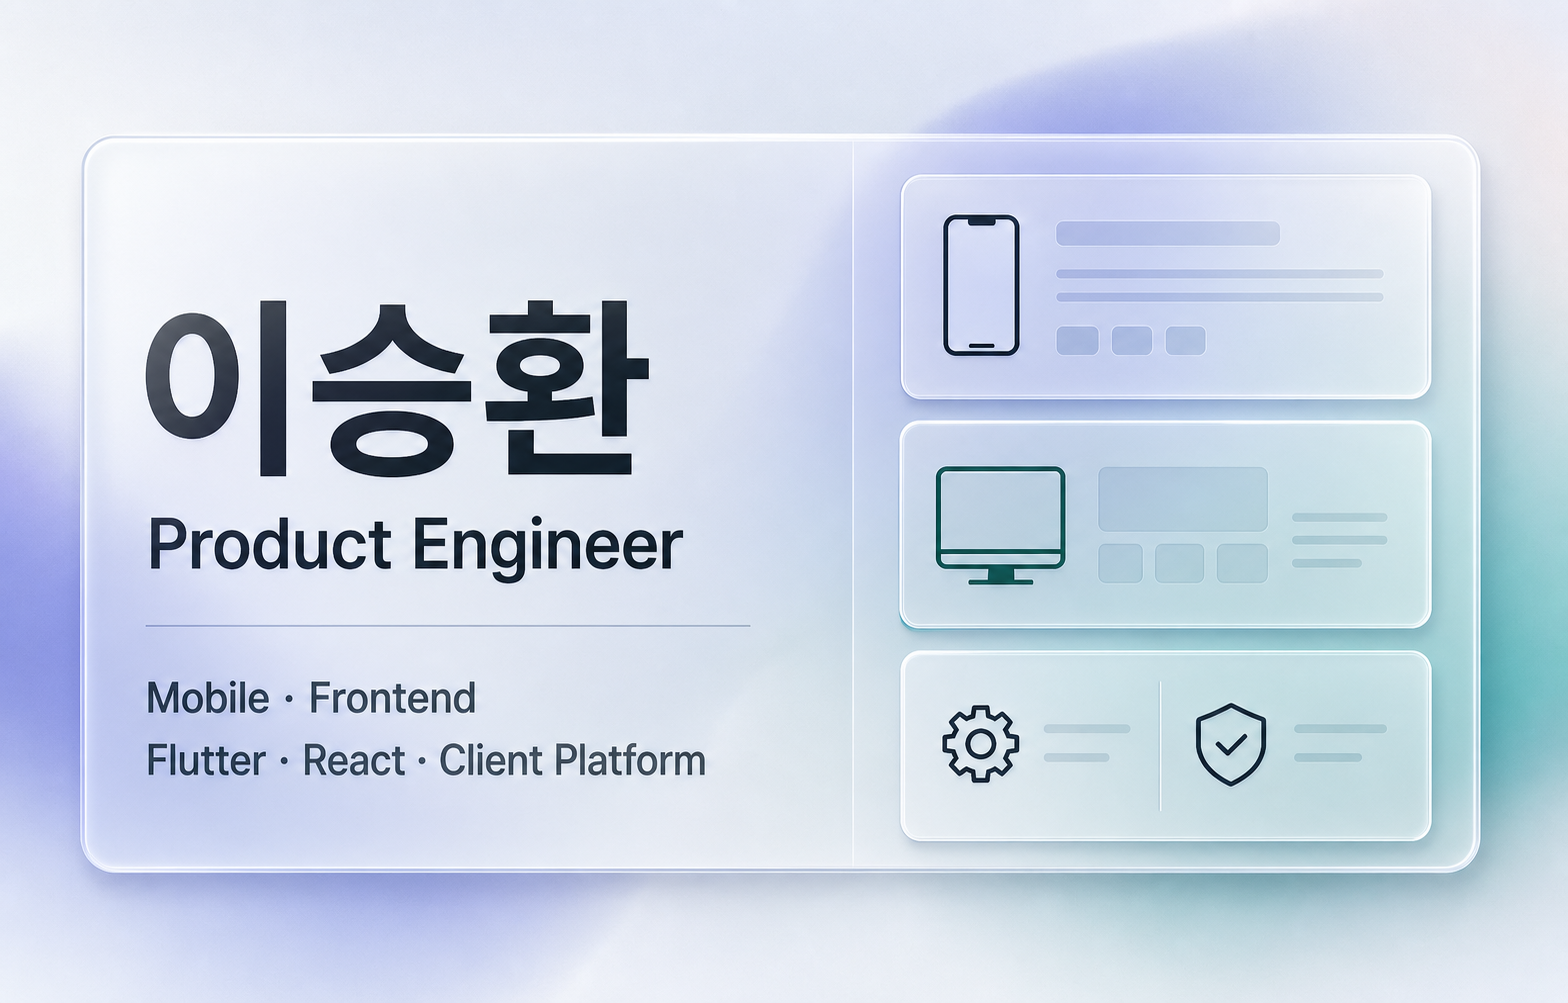
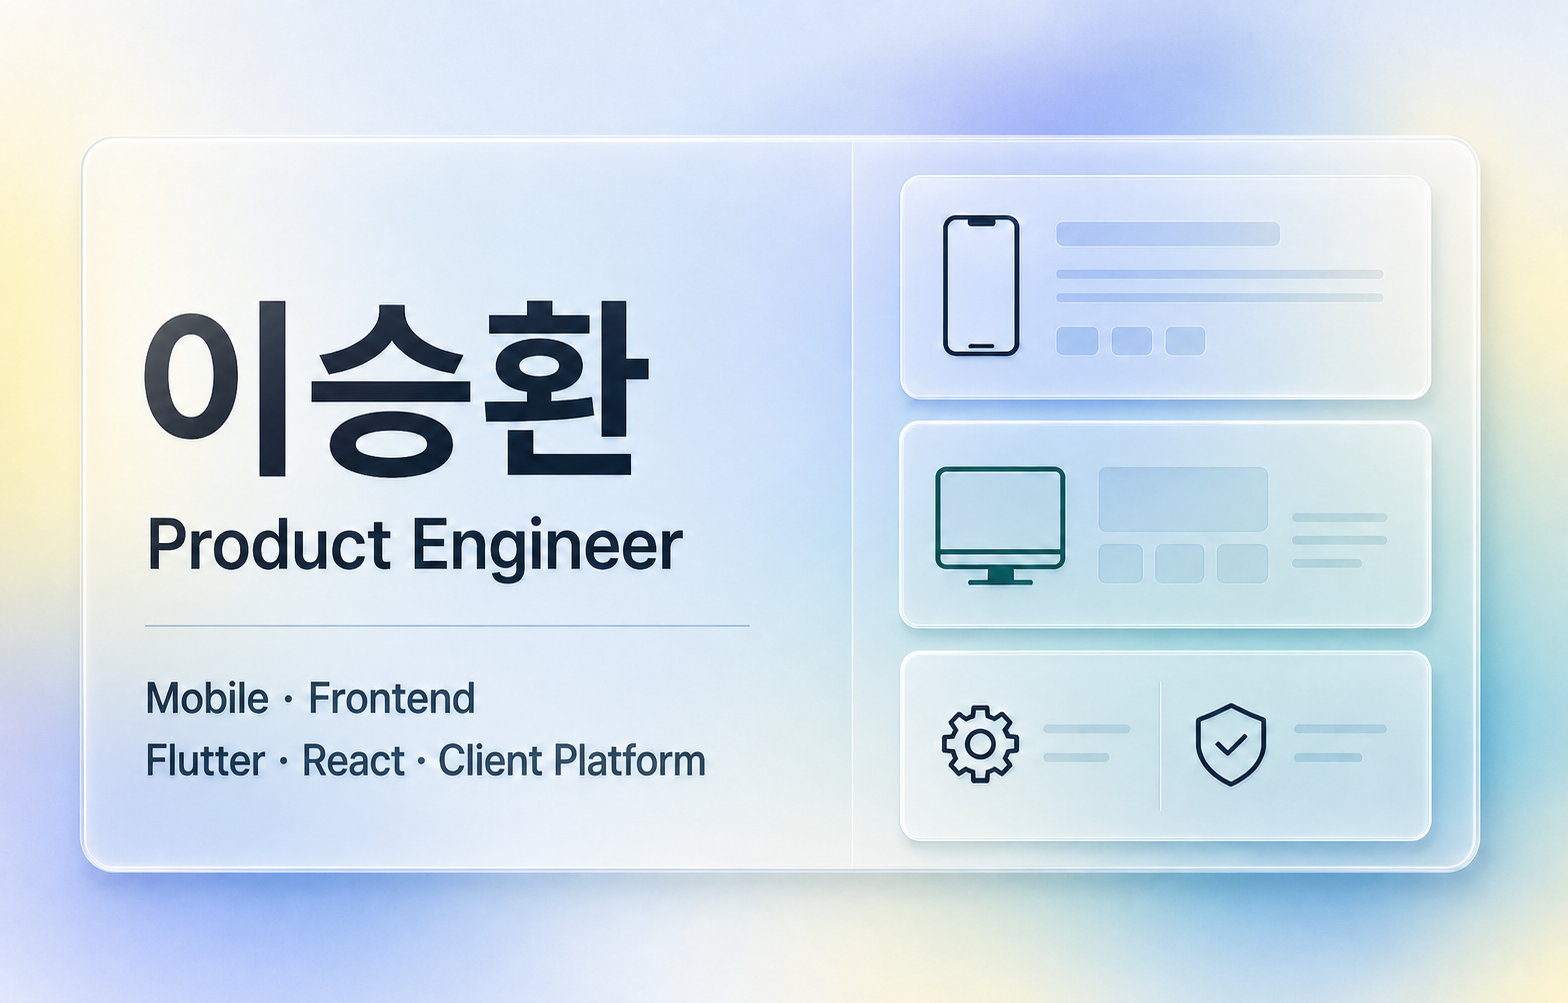
파스텔 앰비언트 그라데이션 보강

diff --git a/app/globals.css b/app/globals.css
@@ -25,6 +25,11 @@
   --amber: #934624;
   --danger: #a63f4e;
   --glint: #e79a68;
+  --wash-blue: 105 159 255;
+  --wash-periwinkle: 105 125 248;
+  --wash-cyan: 121 221 225;
+  --wash-lemon: 255 235 112;
+  --wash-ice: 246 250 255;
   --font-sans: "Pretendard", sans-serif;
   --font-mono: "Pretendard", sans-serif;
   --max-width: 1180px;
@@ -82,13 +87,29 @@ body {
 body::before {
   position: fixed;
   z-index: -1;
-  inset: 0;
+  inset: -18vmax -12vmax;
   pointer-events: none;
   background:
-    radial-gradient(circle at 12% 8%, rgb(91 92 226 / 17%), transparent 30%),
-    radial-gradient(circle at 88% 26%, rgb(21 135 125 / 15%), transparent 28%),
-    radial-gradient(circle at 72% 88%, rgb(231 154 104 / 10%), transparent 24%);
+    linear-gradient(
+      112deg,
+      rgb(var(--wash-lemon) / 17%) 2%,
+      transparent 27% 77%,
+      rgb(var(--wash-lemon) / 11%) 100%
+    ),
+    radial-gradient(
+      ellipse 31% 106% at 65% 38%,
+      rgb(var(--wash-periwinkle) / 20%) 0%,
+      rgb(var(--wash-blue) / 16%) 44%,
+      transparent 78%
+    ),
+    linear-gradient(
+      137deg,
+      transparent 11%,
+      rgb(var(--wash-cyan) / 16%) 38%,
+      transparent 68%
+    );
   content: "";
+  opacity: 0.86;
 }
 
 ::selection {
@@ -705,7 +726,15 @@ table {
 
 .proof-cell:first-child {
   padding-left: 24px;
-  background: rgb(232 233 255 / 68%);
+  background:
+    linear-gradient(
+      118deg,
+      rgb(var(--wash-lemon) / 18%) 0%,
+      rgb(var(--wash-cyan) / 18%) 42%,
+      rgb(var(--wash-blue) / 20%) 74%,
+      rgb(255 255 255 / 68%) 100%
+    ),
+    rgb(255 255 255 / 62%);
   border-color: rgb(91 92 226 / 30%);
   box-shadow: var(--shadow-lift);
 }
@@ -733,7 +762,15 @@ table {
 }
 
 .proof-cell:first-child:focus-visible {
-  background: rgb(232 233 255 / 72%);
+  background:
+    linear-gradient(
+      118deg,
+      rgb(var(--wash-lemon) / 18%) 0%,
+      rgb(var(--wash-cyan) / 18%) 42%,
+      rgb(var(--wash-blue) / 20%) 74%,
+      rgb(255 255 255 / 72%) 100%
+    ),
+    rgb(255 255 255 / 64%);
 }
 
 .proof-value {
@@ -869,8 +906,14 @@ table {
 
   .proof-cell:first-child:hover {
     background:
-      linear-gradient(135deg, rgb(91 92 226 / 18%), rgb(21 135 125 / 15%)),
-      rgb(255 255 255 / 60%);
+      linear-gradient(
+        118deg,
+        rgb(var(--wash-lemon) / 20%) 0%,
+        rgb(var(--wash-cyan) / 20%) 42%,
+        rgb(var(--wash-blue) / 22%) 74%,
+        rgb(255 255 255 / 72%) 100%
+      ),
+      rgb(255 255 255 / 64%);
     border-color: rgb(91 92 226 / 38%);
   }
 
@@ -2816,8 +2859,14 @@ table {
 
 .proof-cell:first-child {
   background:
-    linear-gradient(135deg, rgb(91 92 226 / 16%), rgb(21 135 125 / 13%)),
-    rgb(255 255 255 / 56%);
+    linear-gradient(
+      118deg,
+      rgb(var(--wash-lemon) / 18%) 0%,
+      rgb(var(--wash-cyan) / 18%) 42%,
+      rgb(var(--wash-blue) / 20%) 74%,
+      rgb(255 255 255 / 68%) 100%
+    ),
+    rgb(255 255 255 / 62%);
   border-color: rgb(91 92 226 / 30%);
   box-shadow: var(--shadow-lift);
 }
@@ -2836,8 +2885,14 @@ table {
 
 .proof-cell:first-child:focus-visible {
   background:
-    linear-gradient(135deg, rgb(91 92 226 / 16%), rgb(21 135 125 / 13%)),
-    rgb(255 255 255 / 56%);
+    linear-gradient(
+      118deg,
+      rgb(var(--wash-lemon) / 18%) 0%,
+      rgb(var(--wash-cyan) / 18%) 42%,
+      rgb(var(--wash-blue) / 20%) 74%,
+      rgb(255 255 255 / 72%) 100%
+    ),
+    rgb(255 255 255 / 64%);
 }
 
 .identity-source::before,
@@ -2853,10 +2908,49 @@ table {
   -webkit-backdrop-filter: blur(16px) saturate(135%);
 }
 
-.fit-section,
-.ai-preview,
+.fit-section {
+  background:
+    radial-gradient(
+      ellipse 72% 170% at 18% 44%,
+      rgb(var(--wash-blue) / 20%) 0%,
+      transparent 72%
+    ),
+    linear-gradient(
+      116deg,
+      rgb(var(--wash-ice) / 86%) 0%,
+      rgb(var(--wash-cyan) / 14%) 58%,
+      rgb(255 255 255 / 72%) 100%
+    );
+}
+
+.ai-preview {
+  background:
+    radial-gradient(
+      ellipse 62% 160% at 76% 42%,
+      rgb(var(--wash-cyan) / 18%) 0%,
+      transparent 74%
+    ),
+    linear-gradient(
+      112deg,
+      rgb(255 255 255 / 74%) 0%,
+      rgb(var(--wash-blue) / 13%) 64%,
+      rgb(var(--wash-lemon) / 14%) 100%
+    );
+}
+
 .agent-learning {
-  background: rgb(229 234 242 / 78%);
+  background:
+    radial-gradient(
+      ellipse 64% 170% at 20% 54%,
+      rgb(var(--wash-lemon) / 18%) 0%,
+      transparent 72%
+    ),
+    linear-gradient(
+      122deg,
+      rgb(var(--wash-ice) / 84%) 0%,
+      rgb(var(--wash-cyan) / 13%) 52%,
+      rgb(var(--wash-blue) / 12%) 100%
+    );
 }
 
 @media (max-width: 1060px) {
@@ -3244,6 +3338,10 @@ table {
     font-size: 15px;
   }
 
+  body::before {
+    opacity: 0.68;
+  }
+
   h1 {
     font-size: clamp(2.5rem, 13vw, 4rem);
   }
@@ -3601,7 +3699,13 @@ table {
   }
 
   body::before {
-    opacity: 0.18;
+    opacity: 0.03;
+  }
+
+  .fit-section,
+  .ai-preview,
+  .agent-learning {
+    background: #e8edf4;
   }
 
   .site-header,
@@ -3648,7 +3752,13 @@ table {
   }
 
   body::before {
-    opacity: 0.12;
+    opacity: 0;
+  }
+
+  .fit-section,
+  .ai-preview,
+  .agent-learning {
+    background: #eef1f6;
   }
 
   :focus-visible {
